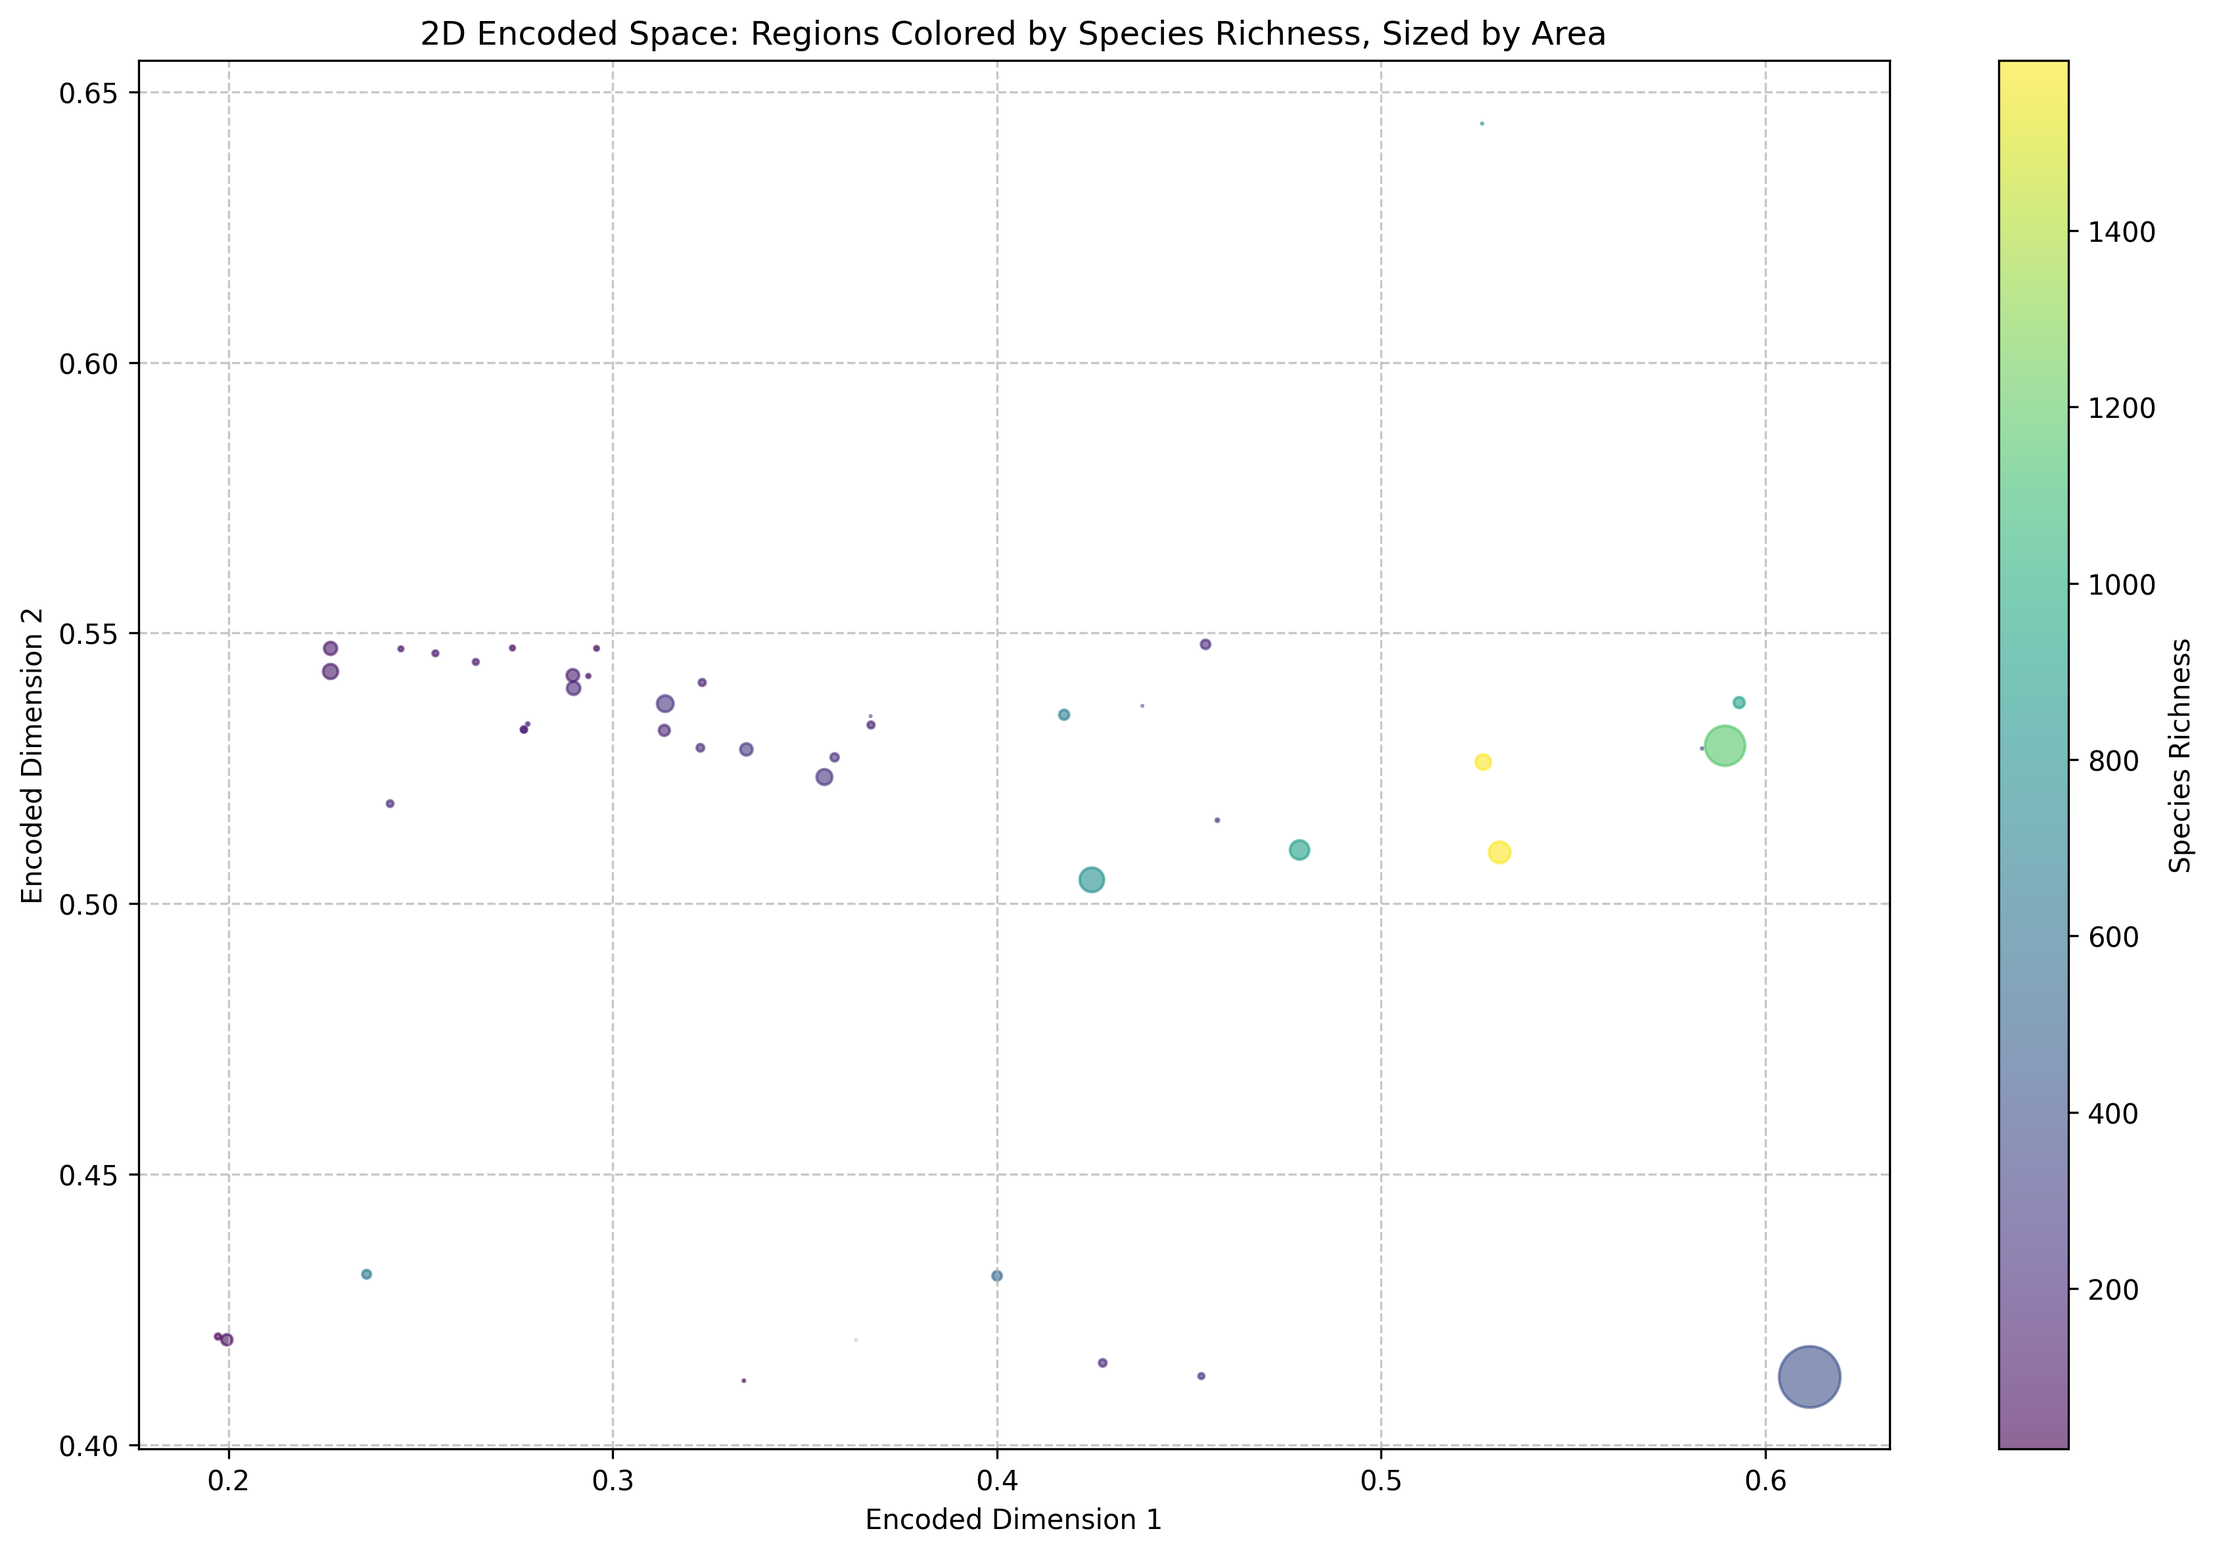
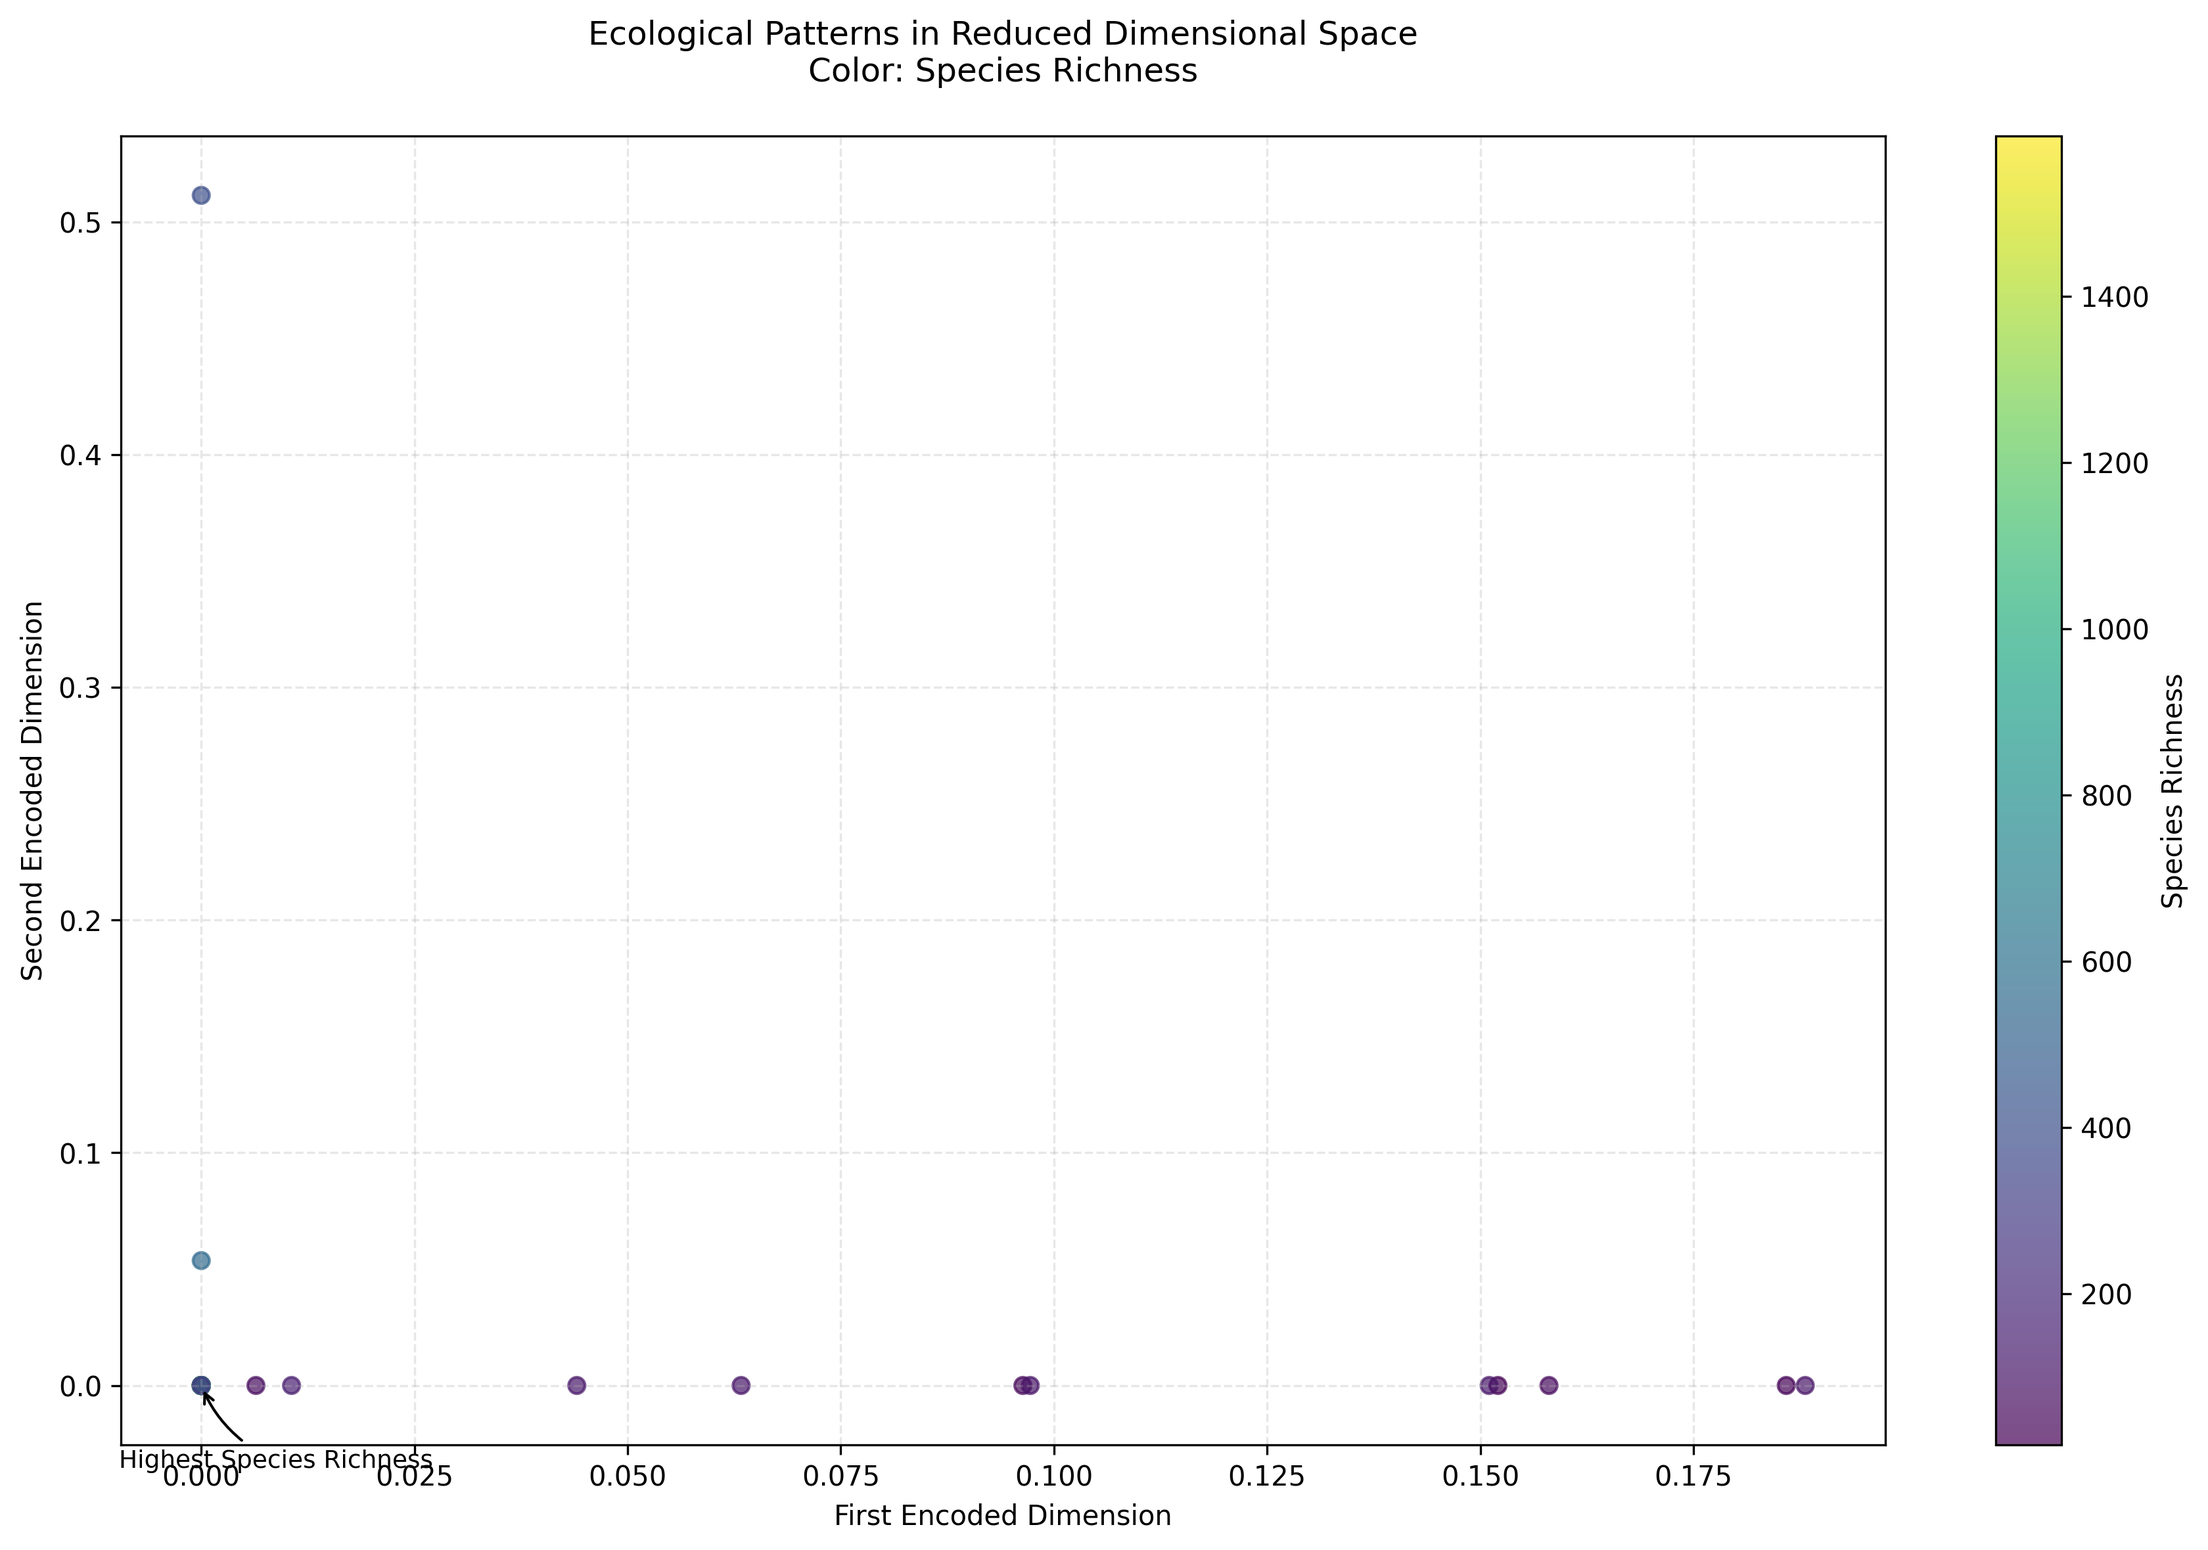
Reverted back to previous simpler autoencoder, but also added better visualisations

diff --git a/visualisation script.py b/visualisation script.py
@@ -4,71 +4,157 @@ import pickle
 import pandas as pd
 
 def load_data(filepath='autoencoder_results.pkl'):
-    """Load the saved autoencoder results."""
+    """Load the autoencoder results and verify data structure."""
     print("Loading data from pickle file...")
-    try:
-        with open(filepath, 'rb') as f:
-            data = pickle.load(f)
-        print("Data loaded successfully!")
-        return data
-    except FileNotFoundError:
-        print(f"Error: {filepath} not found!")
-        return None
+    with open(filepath, 'rb') as f:
+        data = pickle.load(f)
+    
+    # Verify expected keys are present
+    expected_keys = ['history', 'features', 'encoded_features', 
+                    'reconstructed_data', 'species_richness']
+    missing_keys = [key for key in expected_keys if key not in data]
+    if missing_keys:
+        raise KeyError(f"Missing expected keys: {missing_keys}")
+    
+    print("Data loaded successfully!")
+    return data
 
-def validate_data(data):
-    """Validate that all required data is present and has the expected structure."""
-    required_keys = ['history', 'features', 'encoded_features', 
-                    'reconstructed_data', 'analysis_df', 'species_richness']
-    
-    print("\nValidating data structure...")
-    
-    # Check all keys exist
-    for key in required_keys:
-        if key not in data:
-            print(f"Error: Missing required key '{key}'")
-            return False
-            
-    # Validate shapes and types
-    print("\nData shapes and types:")
-    print(f"Training history length: {len(data['history'])}")
-    print(f"Number of features: {len(data['features'])}")
-    print(f"Encoded features shape: {data['encoded_features'].shape}")
-    print(f"Reconstructed data shape: {data['reconstructed_data'].shape}")
-    print(f"Analysis DataFrame shape: {data['analysis_df'].shape}")
-    print(f"Species richness length: {len(data['species_richness'])}")
-    
-    return True
-
-def create_paper_visualizations(data):
-    """Create all visualizations for the paper using only matplotlib."""
-    print("\nCreating visualizations...")
-    
-    # Set style for all plots
+def create_visualizations(data):
+    """Create comprehensive visualizations using minimal dependencies."""
     plt.style.use('default')
     
-    # 1. Training Loss Curve
-    print("Creating loss curve plot...")
+    # 1. Training Loss Evolution
     plt.figure(figsize=(10, 6))
-    plt.plot(range(1, len(data['history']) + 1), data['history'], 'b-', linewidth=2)
+    epochs = range(1, len(data['history']) + 1)
+    plt.plot(epochs, data['history'], 'b-', linewidth=2, label='Training Loss')
+    
+    # Add trend line
+    z = np.polyfit(epochs, data['history'], 1)
+    p = np.poly1d(z)
+    plt.plot(epochs, p(epochs), "r--", alpha=0.8, 
+             label=f'Trend (slope: {z[0]:.4f})')
+    
     plt.title('Autoencoder Training Progress', fontsize=12)
     plt.xlabel('Epoch', fontsize=10)
-    plt.ylabel('Mean Squared Error Loss', fontsize=10)
+    plt.ylabel('Loss', fontsize=10)
     plt.grid(True, linestyle='--', alpha=0.7)
+    plt.legend(fontsize=9)
     plt.tight_layout()
-    plt.savefig('loss_curve.png', dpi=300, bbox_inches='tight')
+    plt.savefig('loss_evolution.png', dpi=300, bbox_inches='tight')
     plt.close()
-    print("Loss curve saved as 'loss_curve.png'")
 
-    # 2. Correlation Matrix Plot (replacement for heatmap)
-    print("\nCreating correlation matrix plot...")
-    correlations = np.zeros((len(data['features']), 2))
-    for i, feature in enumerate(data['features']):
-        correlations[i, 0] = data['analysis_df'][feature].corr(data['analysis_df']['encoded_dim_1'])
-        correlations[i, 1] = data['analysis_df'][feature].corr(data['analysis_df']['encoded_dim_2'])
+   # Replace the existing 2D visualization section with this:
 
+    # 3. Integrated 2D Visualization
+    plt.figure(figsize=(12, 8))
+    
+    # Create base scatter plot (always works with species richness)
+    scatter = plt.scatter(data['encoded_features'][:, 0], 
+                         data['encoded_features'][:, 1],
+                         c=data['species_richness'],
+                         cmap='viridis',
+                         alpha=0.7)
+    
+    plt.colorbar(scatter, label='Species Richness')
+    
+    # Add population density encoding if available
+    density_cols = [col for col in data['features'] if 'density' in col.lower()]
+    if density_cols:
+        # Update point sizes based on population density
+        pop_density_idx = data['features'].index(density_cols[0])
+        pop_density = data['reconstructed_data'][:, pop_density_idx]
+        plt.scatter(data['encoded_features'][:, 0], 
+                   data['encoded_features'][:, 1],
+                   c=data['species_richness'],
+                   s=np.log1p(pop_density) * 100,
+                   cmap='viridis',
+                   alpha=0.7)
+        
+        # Add annotation for highest density
+        max_density_idx = np.argmax(pop_density)
+        plt.annotate('Highest Population Density',
+                    xy=(data['encoded_features'][max_density_idx, 0],
+                        data['encoded_features'][max_density_idx, 1]),
+                    xytext=(30, 30),
+                    textcoords='offset points',
+                    fontsize=9,
+                    arrowprops=dict(arrowstyle='->',
+                                   connectionstyle='arc3,rad=0.2'))
+    
+    # Always add highest species richness annotation
+    max_richness_idx = np.argmax(data['species_richness'])
+    plt.annotate('Highest Species Richness',
+                xy=(data['encoded_features'][max_richness_idx, 0],
+                    data['encoded_features'][max_richness_idx, 1]),
+                xytext=(-30, -30),
+                textcoords='offset points',
+                fontsize=9,
+                arrowprops=dict(arrowstyle='->',
+                               connectionstyle='arc3,rad=-0.2'))
+    
+    plt.xlabel('First Encoded Dimension', fontsize=10)
+    plt.ylabel('Second Encoded Dimension', fontsize=10)
+    plt.title('Ecological Patterns in Reduced Dimensional Space\n' +
+             'Color: Species Richness',
+             fontsize=12, pad=20)
+    plt.grid(True, linestyle='--', alpha=0.3)
+    
+    plt.tight_layout()
+    plt.savefig('2d_embedding.png', dpi=300, bbox_inches='tight')
+    plt.close()
+
+    # 4. Feature Reconstruction Analysis
+    reconstructed_df = pd.DataFrame(data['reconstructed_data'], 
+                                  columns=data['features'])
+    
+    errors = []
+    for feature in data['features']:
+        error = np.mean((reconstructed_df[feature] - 
+                        reconstructed_df[feature].mean()) ** 2)
+        errors.append({'feature': feature, 'error': error})
+    
+    error_df = pd.DataFrame(errors)
+    error_df = error_df.sort_values('error', ascending=False)
+    
+    plt.figure(figsize=(12, 6))
+    bars = plt.bar(range(len(error_df)), error_df['error'], alpha=0.8)
+    
+    plt.xticks(range(len(error_df)), 
+               error_df['feature'], 
+               rotation=45, 
+               ha='right')
+    
+    # Add value labels on bars
+    for bar in bars:
+        height = bar.get_height()
+        plt.text(bar.get_x() + bar.get_width()/2., height,
+                f'{height:.3f}',
+                ha='center', va='bottom',
+                fontsize=8)
+    
+    plt.title('Feature Reconstruction Analysis', fontsize=12)
+    plt.ylabel('Mean Squared Error', fontsize=10)
+    plt.grid(True, axis='y', linestyle='--', alpha=0.7)
+    plt.tight_layout()
+    plt.savefig('reconstruction_analysis.png', dpi=300, bbox_inches='tight')
+    plt.close()
+
+    # 5. Correlation Matrix
     plt.figure(figsize=(10, 8))
+    
+    # Calculate correlations between encoded dimensions and features
+    correlations = []
+    for feature in data['features']:
+        feature_data = reconstructed_df[feature]
+        corr_dim1 = np.corrcoef(data['encoded_features'][:, 0], feature_data)[0,1]
+        corr_dim2 = np.corrcoef(data['encoded_features'][:, 1], feature_data)[0,1]
+        correlations.append([corr_dim1, corr_dim2])
+    
+    correlations = np.array(correlations)
+    
+    # Create correlation matrix plot
     im = plt.imshow(correlations, cmap='RdBu', aspect='auto', vmin=-1, vmax=1)
-    plt.colorbar(im, label='Correlation')
+    plt.colorbar(im, label='Correlation Coefficient')
     
     # Add correlation values as text
     for i in range(len(data['features'])):
@@ -77,111 +163,28 @@ def create_paper_visualizations(data):
                     ha='center', va='center', color='black')
     
     plt.xticks([0, 1], ['Dimension 1', 'Dimension 2'])
-    plt.yticks(range(len(data['features'])), data['features'])
+    plt.yticks(range(len(data['features'])), data['features'], ha='right')
     plt.title('Feature Correlations with Encoded Dimensions', fontsize=12)
+    
     plt.tight_layout()
     plt.savefig('correlation_matrix.png', dpi=300, bbox_inches='tight')
     plt.close()
-    print("Correlation matrix saved as 'correlation_matrix.png'")
-
-    # 3. Species Richness vs. Encoded Dimensions
-    print("\nCreating species richness scatter plots...")
-    fig, (ax1, ax2) = plt.subplots(1, 2, figsize=(15, 6))
-    
-    # Dimension 1
-    ax1.scatter(data['analysis_df']['encoded_dim_1'], data['species_richness'], 
-                alpha=0.6, c='blue')
-    z1 = np.polyfit(data['analysis_df']['encoded_dim_1'], data['species_richness'], 1)
-    p1 = np.poly1d(z1)
-    ax1.plot(data['analysis_df']['encoded_dim_1'], 
-             p1(data['analysis_df']['encoded_dim_1']), "r--", alpha=0.8)
-    ax1.set_xlabel('Encoded Dimension 1')
-    ax1.set_ylabel('Species Richness')
-    ax1.set_title('Species Richness vs. Dimension 1')
-    ax1.grid(True, linestyle='--', alpha=0.7)
-    
-    # Dimension 2
-    ax2.scatter(data['analysis_df']['encoded_dim_2'], data['species_richness'], 
-                alpha=0.6, c='blue')
-    z2 = np.polyfit(data['analysis_df']['encoded_dim_2'], data['species_richness'], 1)
-    p2 = np.poly1d(z2)
-    ax2.plot(data['analysis_df']['encoded_dim_2'], 
-             p2(data['analysis_df']['encoded_dim_2']), "r--", alpha=0.8)
-    ax2.set_xlabel('Encoded Dimension 2')
-    ax2.set_ylabel('Species Richness')
-    ax2.set_title('Species Richness vs. Dimension 2')
-    ax2.grid(True, linestyle='--', alpha=0.7)
-    
-    plt.tight_layout()
-    plt.savefig('richness_vs_dimensions.png', dpi=300, bbox_inches='tight')
-    plt.close()
-    print("Species richness plots saved as 'richness_vs_dimensions.png'")
-
-    # 4. 2D Embedding Plot
-    print("\nCreating 2D embedding plot...")
-    plt.figure(figsize=(12, 8))
-    scatter = plt.scatter(data['encoded_features'][:, 0], 
-                         data['encoded_features'][:, 1],
-                         c=data['species_richness'],
-                         s=data['analysis_df']['area (sq km)'] / 
-                           data['analysis_df']['area (sq km)'].max() * 500,
-                         cmap='viridis',
-                         alpha=0.6)
-    plt.colorbar(scatter, label='Species Richness')
-    plt.xlabel('Encoded Dimension 1')
-    plt.ylabel('Encoded Dimension 2')
-    plt.title('2D Encoded Space: Regions Colored by Species Richness, Sized by Area')
-    plt.grid(True, linestyle='--', alpha=0.7)
-    plt.tight_layout()
-    plt.savefig('2d_embedding.png', dpi=300, bbox_inches='tight')
-    plt.close()
-    print("2D embedding plot saved as '2d_embedding.png'")
-
-    # 5. Reconstruction Error Bar Plot
-    print("\nCreating reconstruction error plot...")
-    reconstruction_errors = []
-    for feature in data['features']:
-        mse = np.mean((data['analysis_df'][feature] - 
-                      pd.DataFrame(data['reconstructed_data'], 
-                                 columns=data['features'])[feature]) ** 2)
-        reconstruction_errors.append(mse)
-
-    plt.figure(figsize=(12, 6))
-    bars = plt.bar(range(len(data['features'])), reconstruction_errors, 
-                   color='skyblue', alpha=0.7)
-    plt.xticks(range(len(data['features'])), data['features'], 
-               rotation=45, ha='right')
-    plt.title('Reconstruction Error by Feature')
-    plt.ylabel('Mean Squared Error')
-    plt.grid(True, axis='y', linestyle='--', alpha=0.7)
-    
-    # Add value labels on bars
-    for bar in bars:
-        height = bar.get_height()
-        plt.text(bar.get_x() + bar.get_width()/2., height,
-                f'{height:.3f}',
-                ha='center', va='bottom')
-    
-    plt.tight_layout()
-    plt.savefig('reconstruction_error.png', dpi=300, bbox_inches='tight')
-    plt.close()
-    print("Reconstruction error plot saved as 'reconstruction_error.png'")
-
-    print("\nAll visualizations completed successfully!")
-
-def main():
-    # Load the data
-    data = load_data()
-    if data is None:
-        return
-    
-    # Validate the data
-    if not validate_data(data):
-        print("Error: Data validation failed!")
-        return
-    
-    # Create visualizations
-    create_paper_visualizations(data)
 
 if __name__ == "__main__":
-    main()
+    try:
+        print("\nStarting visualization process...")
+        data = load_data()
+        
+        print("\nCreating visualizations...")
+        create_visualizations(data)
+        
+        print("\nVisualizations created successfully!")
+        print("Generated files:")
+        print("- loss_evolution.png")
+        print("- population_patterns.png")
+        print("- integrated_patterns.png")
+        print("- reconstruction_analysis.png")
+        
+    except Exception as e:
+        print(f"\nError occurred: {str(e)}")
+        print("Please check your data structure and column names.")
